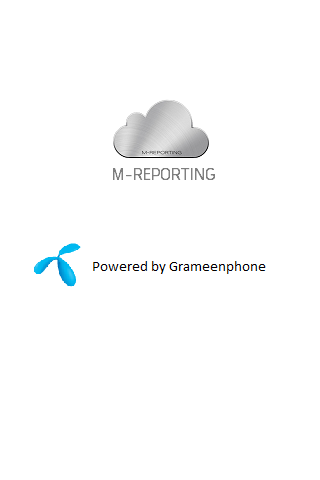
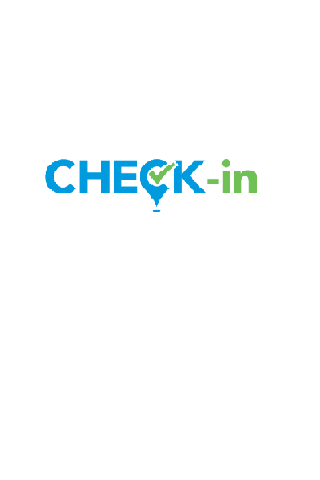
t 5 20180508

Changed region(s): [[0.125, 0.1875, 0.8125, 0.4688], [0.2812, 0.5312, 0.8438, 0.5938], [0.0938, 0.5, 0.25, 0.5938]]

diff --git a/www/survey.js b/www/survey.js
@@ -19,11 +19,7 @@ $.afui.useOSThemes=false;
 
 /******** jahangirEditedStart16Feb apipath *****************/
 
-//var  apipath ='http://127.0.0.1:8000/acme/medSearch/'
 
-var  apipath ='http://a007.yeapps.com/acme/medSearch/'
-//var  apipath ='http://127.0.0.1:8000/acme/medSearch/'
-/******** jahangirEditedEnd16 apipath *****************/
 
 
 
@@ -67,7 +63,7 @@ var  apipath ='http://a007.yeapps.com/acme/medSearch/'
 
 
 
-var apiPath='http://127.0.0.1:8000/check_in/syncmobile_checkIn/';
+var apiPath='http://w02.yeapps.com/checkin/';
 
 
 
